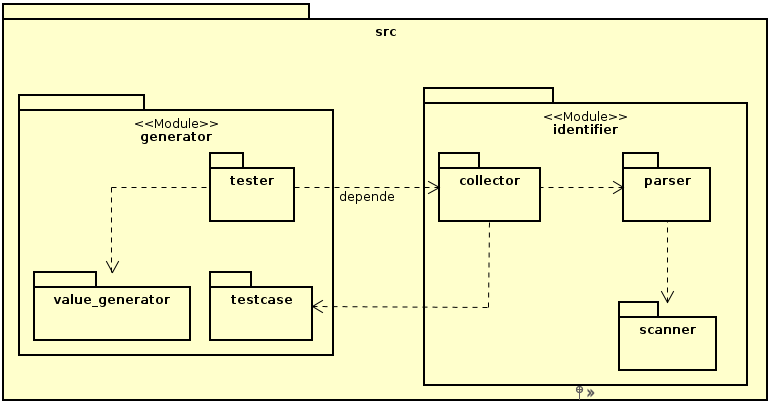
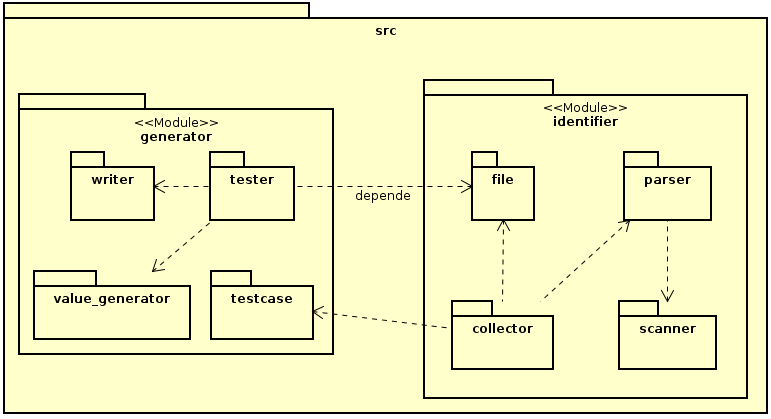
Escrevendo sobre o scarefault

diff --git a/editaveis/scarefault.tex b/editaveis/scarefault.tex
@@ -14,6 +14,15 @@ coleta informações necessárias para a produção dos casos de teste e gera
 um arquivo contendo os testes solicitados. É importante ressaltar que,
 para esse trabalho, os testes gerados são apenas testes caixa preta.
 
+O \framework se propõe em permitir a acoplagem de diferentes linguagens
+de programação. Para isso, há a necessidade da construção de um \parser
+que identifique a sintaxe da linguagem alvo por meio de duas
+ferramentas: \flexcpp e \textsf{Bisonc++}. Essas duas ferramentas são
+comuns em contextos de produção de compiladores. Com o \parser
+implementando o desenvolvedor poderá implemetnar as especificidades
+relacionadas aos testes da linguagem alvo, tendo como base o código
+oferecido pelo \Scarefault.
+
 O \scarefault foi escrito em \cpp e está licenciado dentro das condições
 da \textsf{GPLv3}. Todo o seu código fonte encontra-se em:
 \url{https://github.com/Scarefault/scarefault}.
@@ -29,17 +38,18 @@ dois módulos básicos: o \textsf{identificador} e o \textsf{gerador}. A Figura
     \caption{Representação dos módulos do \Scarefault}
     \label{modules-scarefault}
 \end{figure}
+\FloatBarrier
 
 \begin{description}
 \item[Identificador:] é responsável pela identificação das regras que regem
 a gramática da linguagem de programação alvo, bem como da coleta dos dados
 necessários para a produção dos casos de teste.
 \item[Gerador:] responsável pela geração dos casos de teste. A partir dos dados
-coletados dos especificações do desenvolvedor e do próprio código fonte, esse
+coletados das especificações do desenvolvedor e do próprio código fonte, esse
 módulo é capaz de gerar casos de teste.
 \end{description}
 
-Expandindo-se os módulos pode observar os pacotes associados a cada um deles
+Expandindo-se os módulos pode-se observar os pacotes associados a cada um deles
 e o relacionamento entre esses pacotes, como mostra a Figura
 \ref{expand-modules-scarefault-1}.
 
@@ -49,5 +59,51 @@ e o relacionamento entre esses pacotes, como mostra a Figura
     \caption{Representação expandida dos módulos do \Scarefault}
     \label{expand-modules-scarefault-1}
 \end{figure}
+
+Como indicado na Figura \ref{expand-modules-scarefault-1}, os pacotes associados ao
+módulo \textsf{identifier} são:
+\begin{description}
+\item[\textit{scanner}:] responsável pela análise léxica do arquivo contendo o código
+fonte em avaliação. As classes contidas nesse pacote são geradas pelo \flexcpp durante
+a compilação.
+\item[\textit{parser}:] responsável pela análise sintática do arquivo contendo o
+código em avaliação. As ações que ele executa quando determinada regra gramatical é
+encontrada são, essencialmente, ações de coleta de dados. As classes associadas
+a esse pacote são geradas pelo \bisoncpp durante a compilação.
+\item[\textit{collector}:] responsável pela coleta de dados necessários para a
+criação de testes unitários.
+\item[\textit{file}:] responsável por guardar os dado coletados do código fonte.
+Dados como as dependências (\textit{libraries} importadas), métodos e classe
+do arquivo em análise.
+\end{description}
+
+Os pacotes associados ao módulo \textsf{generator}, como mostra a Figura
+\ref{expand-modules-scarefault-1}, são:
+\begin{description}
+\item[	\textit{tester}:] responsável pela construção dos arquivos de teste. A partir
+dele é que os testes ganham forma, conforme a linguagem de programação.
+\item[	\textit{testecase}:] responsável por guardar os dados relacionados
+a cada caso de teste especificado pelo desenvolvedor, a partir dos
+comentários no código fonte.
+\item[	\textit{value\_generator}:] responsável por gerar valores randômicos
+para o desenvolvimento dos testes.
+\item[\textit{writer}:] responsável por escrever as informações da arquivo de
+teste, enviadas pelo \textsf{tester}. Para isso, ele cria o arquivo e
+escreve todas as informações a ele solicitadas.
+\end{description}
+
+As Figuras \ref{modules-scarefault} e \ref{expand-modules-scarefault-1} mostram
+a visão de pacotes do \scarefault e como eles se relacionam, bem como a
+responsabilidade que cabe a cada um deles. Aprofundando-se mais, chega-se a uma
+visão das entidades associadas a cada pacote. A visão de quais são essas
+entidades e como elas se relacionam pode ser verificada pelo diagrama de 
+domínio, mostrado na Figura \ref{domain-diagram}.
+\begin{figure}[h]
+  \centering
+    \includegraphics[width=\textwidth]{figuras/domain-diagram.png}
+    \caption{Diagrama de domínio do \Scarefault}
+    \label{domain-diagram}
+\end{figure}
+\FloatBarrier
 
 \section{A Utilização do \scarefault}

diff --git a/fixos/pacotes.tex b/fixos/pacotes.tex
@@ -14,3 +14,4 @@
 \usepackage{bold-extra}
 \usepackage{eso-pic}
 \usepackage{listings}
+\usepackage{placeins}
